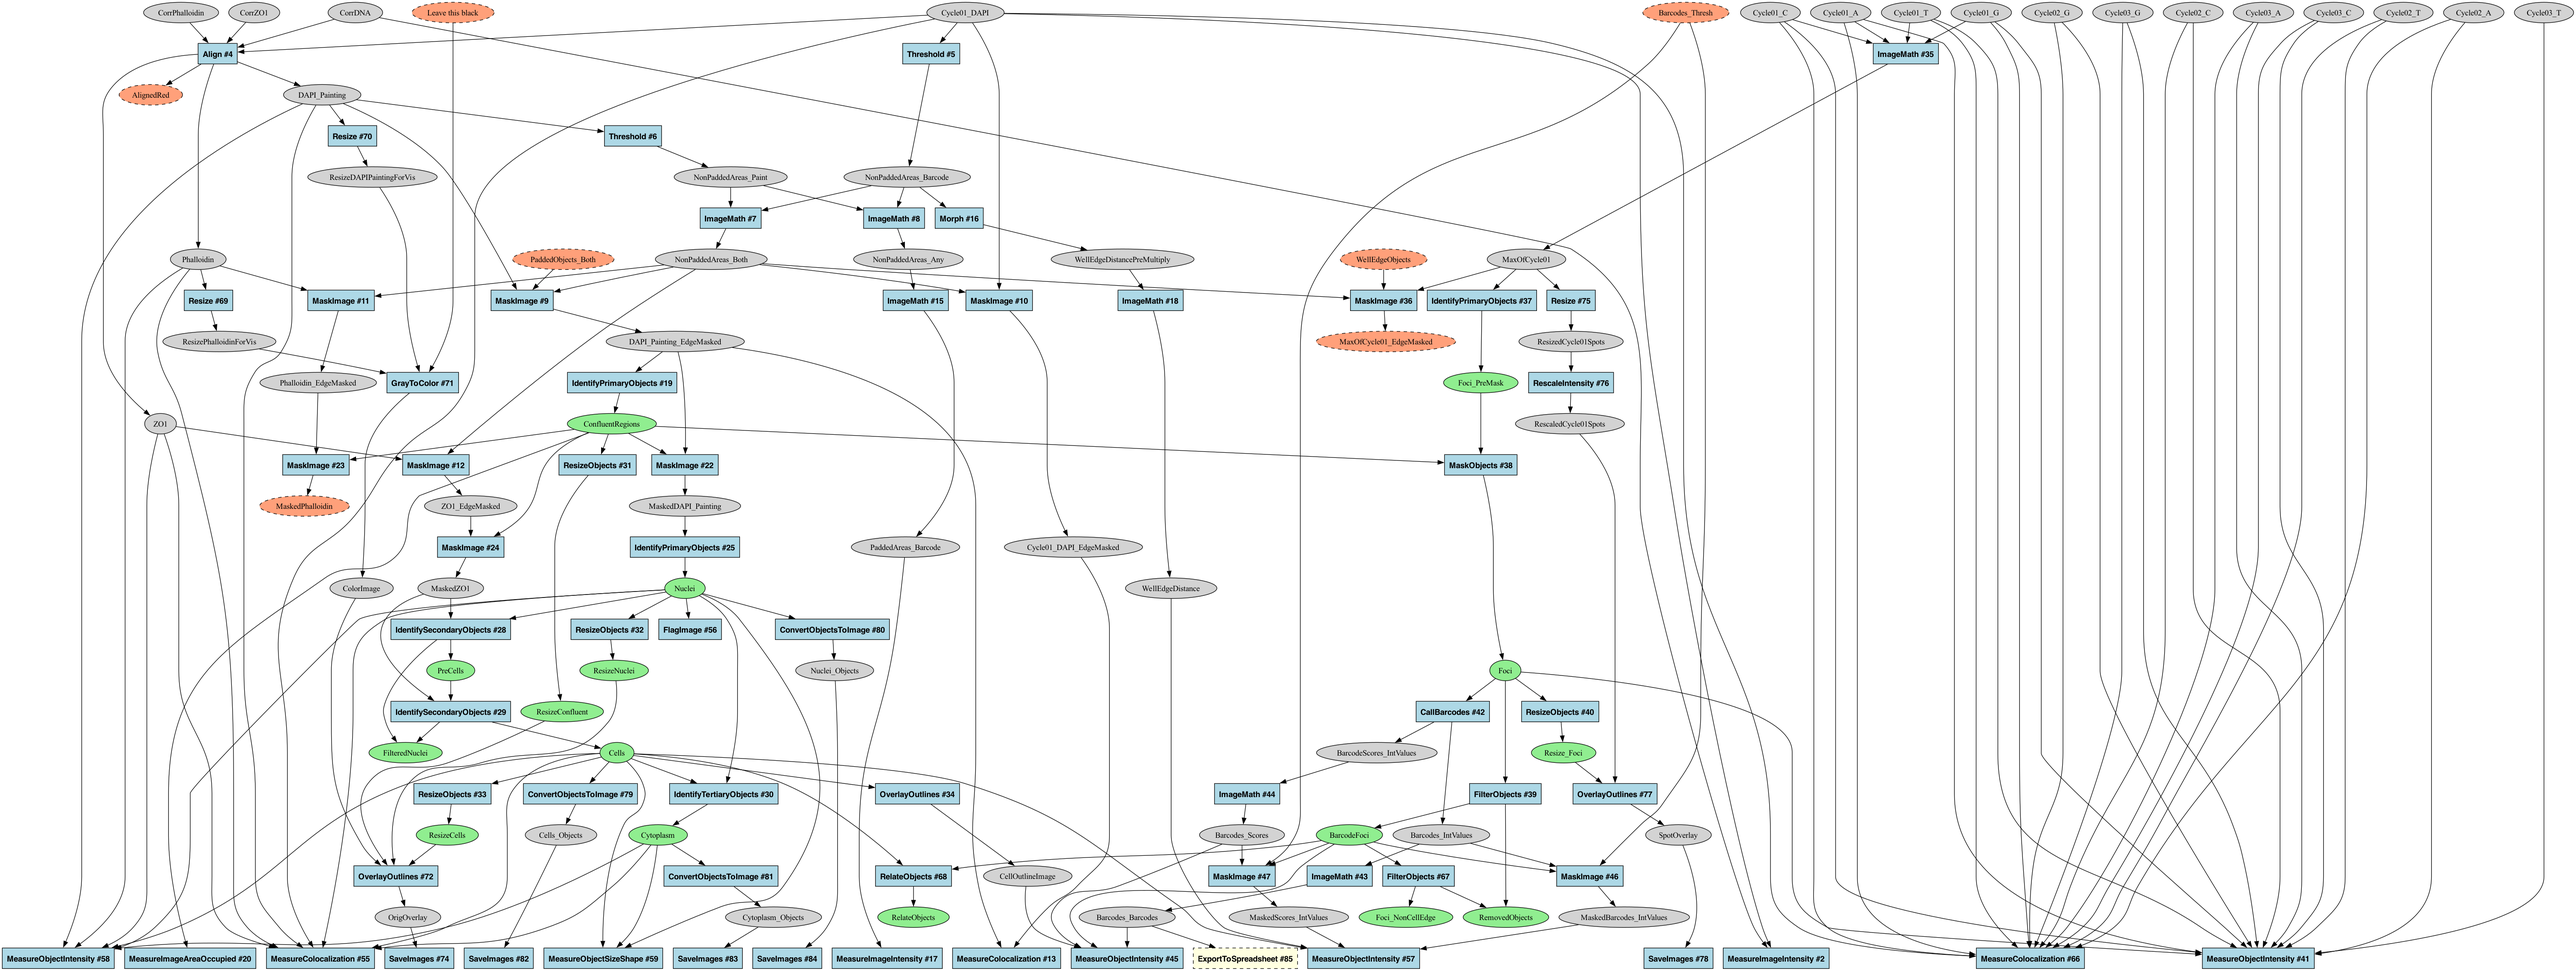
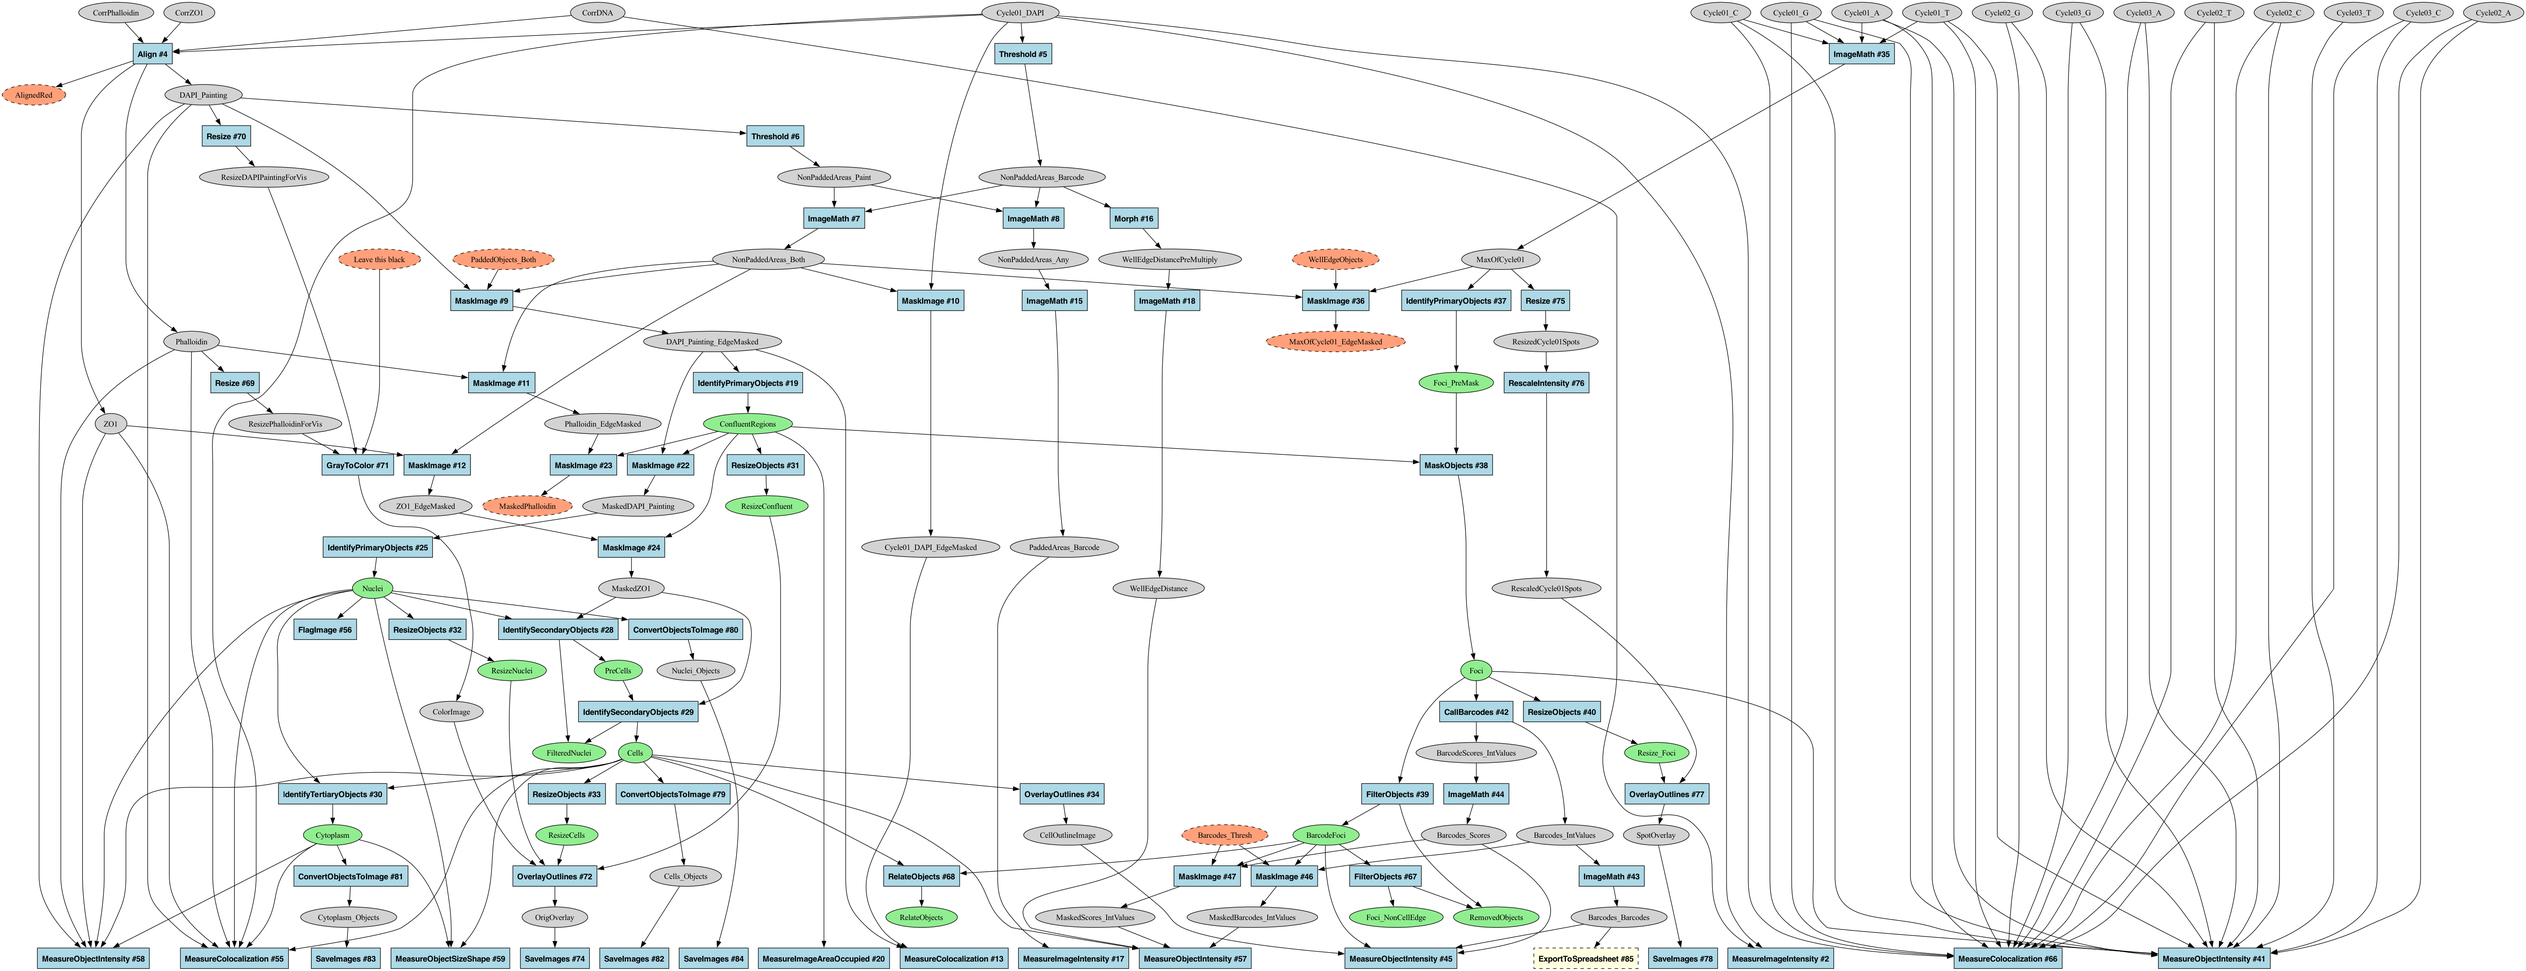
Add rank-ignore-filtered option for improved graph layout
This enhancement allows users to exclude filtered nodes when applying node ranking,
making graph visualization cleaner when using both filtering and ranking together.
Updates README.md and DEVELOPMENT.md with the new option.

🤖 Generated with [Claude Code](https://claude.ai/code)

diff --git a/cp_graph.py b/cp_graph.py
@@ -551,7 +551,7 @@ def _apply_data_node_styling(G: nx.DiGraph, node: str, node_type: str) -> None:
             G.nodes[node]["fillcolor"] = STYLE_COLORS[node_type]["normal"]
 
 
-def _identify_source_nodes(G: nx.DiGraph) -> List[str]:
+def _identify_source_nodes(G: nx.DiGraph, ignore_filtered: bool = False) -> List[str]:
     """
     Identify source nodes in the graph for ranking at the top.
     
@@ -559,6 +559,7 @@ def _identify_source_nodes(G: nx.DiGraph) -> List[str]:
     
     Args:
         G: The NetworkX graph
+        ignore_filtered: If True, skip nodes that are marked as filtered
         
     Returns:
         List of node IDs to rank at the top
@@ -568,8 +569,13 @@ def _identify_source_nodes(G: nx.DiGraph) -> List[str]:
     # Find nodes that match source criteria:
     # 1. Node type is in SOURCE_NODE_TYPES
     # 2. No incoming edges (in_degree = 0)
+    # 3. Not filtered if ignore_filtered is True
     for node, attrs in G.nodes(data=True):
         node_type = attrs.get("type")
+        # Skip filtered nodes if requested
+        if ignore_filtered and attrs.get("filtered", False):
+            continue
+            
         if node_type in SOURCE_NODE_TYPES and G.in_degree(node) == 0:
             # Node IDs are already properly formatted in the graph
             source_nodes.append(node)
@@ -577,7 +583,7 @@ def _identify_source_nodes(G: nx.DiGraph) -> List[str]:
     return source_nodes
 
 
-def _identify_sink_nodes(G: nx.DiGraph) -> List[str]:
+def _identify_sink_nodes(G: nx.DiGraph, ignore_filtered: bool = False) -> List[str]:
     """
     Identify sink nodes in the graph for ranking at the bottom.
     
@@ -585,6 +591,7 @@ def _identify_sink_nodes(G: nx.DiGraph) -> List[str]:
     
     Args:
         G: The NetworkX graph
+        ignore_filtered: If True, skip nodes that are marked as filtered
         
     Returns:
         List of node IDs to rank at the bottom
@@ -595,8 +602,13 @@ def _identify_sink_nodes(G: nx.DiGraph) -> List[str]:
     # Find module nodes that match sink criteria:
     # 1. Node type is NODE_TYPE_MODULE
     # 2. Module name matches one of the patterns in SINK_MODULE_PATTERNS
+    # 3. Not filtered if ignore_filtered is True
     for node, attrs in G.nodes(data=True):
         node_type = attrs.get("type")
+        # Skip filtered nodes if requested
+        if ignore_filtered and attrs.get("filtered", False):
+            continue
+            
         if node_type == NODE_TYPE_MODULE:
             module_name = attrs.get("module_name", "")
             
@@ -614,7 +626,12 @@ def _identify_sink_nodes(G: nx.DiGraph) -> List[str]:
 # and is kept only for reference until removed
 
 
-def prepare_for_dot_output(G: nx.DiGraph, ultra_minimal: bool = False, rank_nodes: bool = False) -> nx.DiGraph:
+def prepare_for_dot_output(
+    G: nx.DiGraph, 
+    ultra_minimal: bool = False, 
+    rank_nodes: bool = False,
+    rank_ignore_filtered: bool = False
+) -> nx.DiGraph:
     """
     Prepare graph for DOT format output with consistent ordering.
 
@@ -622,6 +639,7 @@ def prepare_for_dot_output(G: nx.DiGraph, ultra_minimal: bool = False, rank_node
         G: The original NetworkX graph
         ultra_minimal: If True, create a stripped-down version with only essential structure
         rank_nodes: If True, add rank attributes to position source and sink nodes
+        rank_ignore_filtered: If True, ignore filtered nodes when calculating rank positions
 
     Returns:
         A new NetworkX DiGraph prepared for DOT output
@@ -670,12 +688,12 @@ def prepare_for_dot_output(G: nx.DiGraph, ultra_minimal: bool = False, rank_node
         # Add rank information for DOT output if requested
         if rank_nodes:
             # Identify source nodes (to be positioned at the top)
-            source_nodes = _identify_source_nodes(G)
+            source_nodes = _identify_source_nodes(G, rank_ignore_filtered)
             if source_nodes:
                 G_ordered.graph["dot_rank_min"] = source_nodes
                 
             # Identify sink nodes (to be positioned at the bottom)
-            sink_nodes = _identify_sink_nodes(G)
+            sink_nodes = _identify_sink_nodes(G, rank_ignore_filtered)
             if sink_nodes:
                 G_ordered.graph["dot_rank_max"] = sink_nodes
 
@@ -734,7 +752,11 @@ def _add_rank_statements(dot_file_path: str, G: nx.DiGraph) -> None:
 
 
 def write_graph_to_file(
-    G: nx.DiGraph, output_path: str, ultra_minimal: bool = False, rank_nodes: bool = False
+    G: nx.DiGraph, 
+    output_path: str, 
+    ultra_minimal: bool = False, 
+    rank_nodes: bool = False,
+    rank_ignore_filtered: bool = False
 ) -> None:
     """
     Write the graph to the specified output file in the appropriate format.
@@ -744,6 +766,7 @@ def write_graph_to_file(
         output_path: Path to write the output file
         ultra_minimal: If True, create a stripped-down version for exact diff comparison
         rank_nodes: If True, add rank statements to position source and sink nodes
+        rank_ignore_filtered: If True, ignore filtered nodes when calculating rank positions
     """
     ext = Path(output_path).suffix.lower()
 
@@ -754,7 +777,12 @@ def write_graph_to_file(
     elif ext == ".dot":
         try:
             # For DOT format, prepare the graph with consistent ordering
-            G_ordered = prepare_for_dot_output(G, ultra_minimal, rank_nodes)
+            G_ordered = prepare_for_dot_output(
+                G, 
+                ultra_minimal=ultra_minimal, 
+                rank_nodes=rank_nodes,
+                rank_ignore_filtered=rank_ignore_filtered
+            )
             nx.drawing.nx_pydot.write_dot(G_ordered, output_path)
             
             # Add rank statements to DOT file if requested and not in ultra-minimal mode
@@ -1137,6 +1165,7 @@ def process_pipeline(
     highlight_filtered: bool = False,
     exclude_module_types: Optional[List[str]] = None,
     rank_nodes: bool = False,
+    rank_ignore_filtered: bool = False,
 ) -> GraphData:
     """
     Process a CellProfiler pipeline and create a dependency graph.
@@ -1158,6 +1187,7 @@ def process_pipeline(
         highlight_filtered: Whether to highlight filtered nodes instead of removing them
         exclude_module_types: Optional list of module type names to exclude from the graph
         rank_nodes: Whether to add rank statements for positioning source and sink nodes
+        rank_ignore_filtered: Whether to ignore filtered nodes when calculating ranks
 
     Returns:
         A tuple of (graph, modules_info) where:
@@ -1209,7 +1239,13 @@ def process_pipeline(
                     del G.edges[edge]["label"]
 
         # Write the graph to the specified file
-        write_graph_to_file(G, output_path, ultra_minimal, rank_nodes)
+        write_graph_to_file(
+            G, 
+            output_path, 
+            ultra_minimal=ultra_minimal, 
+            rank_nodes=rank_nodes,
+            rank_ignore_filtered=rank_ignore_filtered
+        )
 
     return G, modules_info
 
@@ -1238,6 +1274,11 @@ def process_pipeline(
     "--rank-nodes", 
     is_flag=True, 
     help="Position source nodes at top and sink nodes at bottom in DOT output"
+)
+@click.option(
+    "--rank-ignore-filtered", 
+    is_flag=True, 
+    help="Ignore filtered nodes when positioning source and sink nodes"
 )
 # Content filtering options
 @click.option(
@@ -1271,6 +1312,7 @@ def cli(
     ultra_minimal: bool,
     explain_ids: bool,
     rank_nodes: bool,
+    rank_ignore_filtered: bool,
     include_disabled: bool,
     root_nodes: Optional[str],
     remove_unused_data: bool,
@@ -1323,6 +1365,10 @@ def cli(
     \b
     # Position source nodes at top and sink nodes at bottom in the graph
     python cp_graph.py examples/illum.json examples/output/illum_ranked.dot --rank-nodes
+    
+    \b
+    # Position source and sink nodes while ignoring filtered nodes
+    python cp_graph.py examples/illum.json examples/output/illum_clean_ranked.dot --root-nodes=OrigDNA --highlight-filtered --rank-nodes --rank-ignore-filtered
     """
     # Process root nodes if provided
     root_node_list = None
@@ -1354,6 +1400,7 @@ def cli(
             highlight_filtered=highlight_filtered,
             exclude_module_types=exclude_module_types_list,
             rank_nodes=rank_nodes,
+            rank_ignore_filtered=rank_ignore_filtered,
         )
     except click.ClickException as e:
         e.show()

diff --git a/README.md b/README.md
@@ -81,6 +81,7 @@ uv run --script cp_graph.py <pipeline.json> <output_file> [options]
 - `--ultra-minimal` - Create minimal output for exact diff comparison
 - `--explain-ids` - Print mapping of stable IDs to module numbers
 - `--rank-nodes` - Position source nodes at top and sink nodes at bottom in DOT output
+- `--rank-ignore-filtered` - Ignore filtered nodes when positioning source and sink nodes (use with `--rank-nodes` and `--highlight-filtered`)
 
 **Filtering Options:**
 - `--include-disabled` - Include disabled modules in the graph
@@ -192,4 +193,7 @@ uv run --script cp_graph.py examples/analysis.json examples/output/analysis_filt
 
 # Combine node ranking with filtering for optimal visualization
 uv run --script cp_graph.py examples/analysis.json examples/output/analysis_ranked_filtered.dot --rank-nodes --root-nodes=CorrPhalloidin,CorrZO1 --remove-unused-data
+
+# Combine node ranking with highlighted filtering, ignoring filtered nodes in ranking
+uv run --script cp_graph.py examples/analysis.json examples/output/analysis_clean_ranked.dot --rank-nodes --rank-ignore-filtered --root-nodes=CorrPhalloidin,CorrZO1 --highlight-filtered
 ```

diff --git a/DEVELOPMENT.md b/DEVELOPMENT.md
@@ -192,6 +192,8 @@ The script uses a modular design with:
    - `--ultra-minimal`: Creates minimal output with only essential structure for exact diff comparison
    - `--include-disabled`: Includes disabled modules in the graph
    - `--explain-ids`: Shows mapping between stable IDs and original module numbers
+   - `--rank-nodes`: Positions source nodes at top and sink nodes at bottom
+   - `--rank-ignore-filtered`: Ignores filtered nodes when calculating rank positions
    - `--quiet` or `-q`: Suppress informational output
 
 ## Documentation
@@ -252,6 +254,7 @@ The tool now supports the `--rank-nodes` option to improve graph layout in DOT f
 1. Source nodes (input images with no incoming edges) are positioned at the top of the graph
 2. Sink nodes (SaveImages, Measure*, Export* modules) are positioned at the bottom
 3. This creates a more intuitive top-to-bottom data flow in the visualized graph
+4. Use with `--rank-ignore-filtered` to exclude filtered nodes from rank calculations when highlighting is used
 
 The implementation uses Graphviz's rank attribute to enforce node positioning:
 
